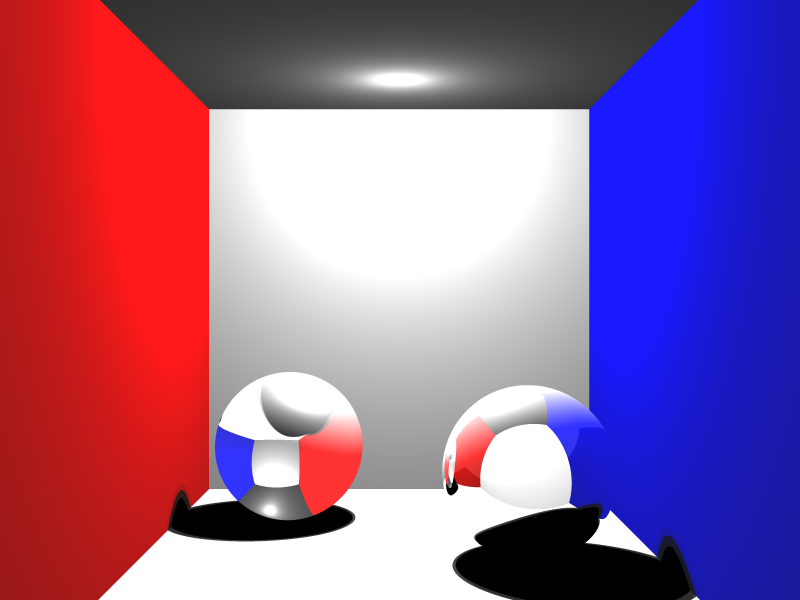
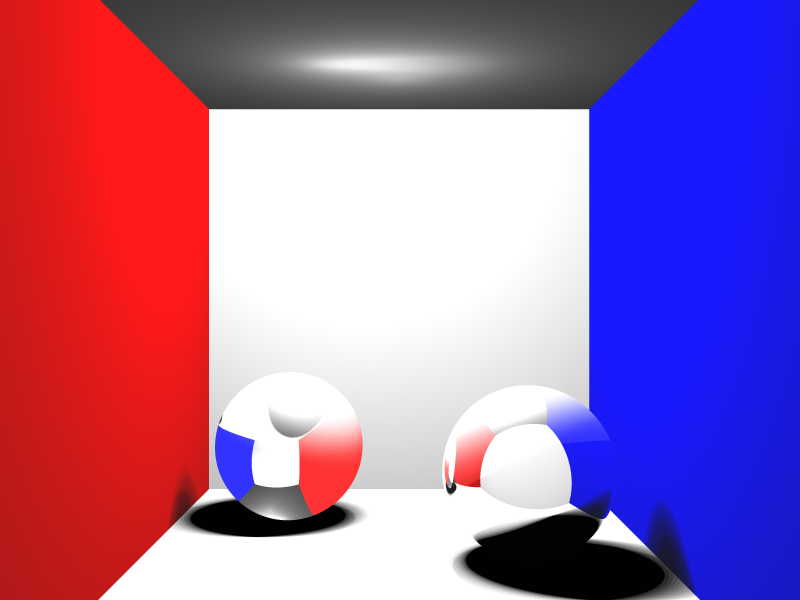
Introduce AreaLight for SoftShadows

diff --git a/VCG_Raytracer/src/raytracer/Raytracer.java b/VCG_Raytracer/src/raytracer/Raytracer.java
@@ -16,8 +16,10 @@
 
 package raytracer;
 
+import scene.lights.AreaLight;
 import scene.lights.Light;
 import scene.Scene;
+import scene.lights.PointLight;
 import scene.shapes.Shape;
 import ui.Window;
 import utils.*;
@@ -131,8 +133,8 @@ public class Raytracer {
         RgbColor illuColor = RgbColor.BLACK;
 
         // Check the ray from the intersection point to any light source
-        for (Light light : mLightList) {
-            illuColor = traceIllumination( illuColor, light, finalIntersection );
+        for( Light light : mLightList ) {
+            illuColor = illuColor.add(traceIllumination( illuColor, light, finalIntersection ));
         }
 
         // Shadow: Something was hit in between of the light source and the current shape. Draw ambient
@@ -145,6 +147,29 @@ public class Raytracer {
     }
 
     private RgbColor traceIllumination(RgbColor illuColor, Light light, Intersection finalIntersection){
+        if( light.isType().equals("PointLight")){
+            illuColor = getColorFromPointLight(illuColor, light, finalIntersection);
+        }
+        if( light.isType().equals("AreaLight")){
+            illuColor = getColorFromAreaLight(illuColor, light, finalIntersection);
+        }
+        return illuColor;
+    }
+
+    private RgbColor getColorFromAreaLight(RgbColor illuColor, Light light, Intersection finalIntersection) {
+
+        ArrayList<PointLight> lightPoints = ((AreaLight) light).getPositionList();
+
+        float factor = 1.0f / lightPoints.size();
+
+        for( PointLight subLight : lightPoints ) {
+            illuColor = illuColor.add( getColorFromPointLight(illuColor, subLight, finalIntersection).multScalar( factor ) );
+        }
+
+        return illuColor;
+    }
+
+    private RgbColor getColorFromPointLight(RgbColor illuColor, Light light, Intersection finalIntersection) {
         Ray lightRay = new Ray(finalIntersection.getIntersectionPoint(), light.getPosition());
 
         Intersection lightIntersection = getIntersectionBetweenLight(lightRay, finalIntersection);

diff --git a/VCG_Raytracer/src/scene/lights/AreaLight.java b/VCG_Raytracer/src/scene/lights/AreaLight.java
@@ -1,11 +1,79 @@
 package scene.lights;
 
+import raytracer.Intersection;
+import raytracer.Ray;
+import scene.shapes.Plane;
 import utils.RgbColor;
 import utils.Vec3;
 
+import java.util.ArrayList;
+
 public class AreaLight  extends Light {
 
-	public AreaLight(Vec3 pos, RgbColor color) {
-		super(pos, color);
+	private Plane mPlane;
+	private float mDim;
+	private short mRes;
+	private float mSteps;
+	private RgbColor mColor;
+	private Vec3 mStartPoint;
+
+	public ArrayList<PointLight> getPositionList() {
+		return mPositionList;
+	}
+
+	private ArrayList<PointLight> mPositionList;
+
+
+	public AreaLight(Vec3 pos, float dimension, short resolution, RgbColor color) {
+		super(pos, color, "AreaLight");
+
+		mPlane = new Plane(pos, null, Plane.FACING_DOWN);
+		mColor = color;
+		mDim = dimension;
+		mRes = resolution;
+		mPositionList = new ArrayList<>();
+		mPositionList.add( new PointLight(pos, color) );
+
+		mSteps = mDim / mRes;
+		mStartPoint = new Vec3(pos.x - mDim / 2, pos.y, pos.z - mDim / 2);
+
+		calculatePositions();
+	}
+
+	private void calculatePositions(){
+
+		if( mRes <= 1 ){
+			return;
+		}
+
+		float m, n = 0;
+
+		for( short i = 0; i < mRes; i++ ){
+			for( short j = 0; j < mRes; j++ ){
+				n = mStartPoint.z + j * mSteps;
+			}
+			m = mStartPoint.x + i * mSteps;
+
+			mPositionList.add(new PointLight( new Vec3(m, getPosition().y, n ), mColor));
+		}
+	}
+
+	public boolean hitsAreaLight(Ray inputRay){
+		// intersects plane?
+		Intersection intersection = mPlane.intersect(inputRay);
+
+		boolean hit = intersection.isHit();
+
+		// is within borders?
+		if( hit ) {
+			if ((intersection.getIntersectionPoint().x < this.getPosition().x + mDim) &&
+					(intersection.getIntersectionPoint().x > this.getPosition().x - mDim) &&
+					(intersection.getIntersectionPoint().z < this.getPosition().z + mDim) &&
+					(intersection.getIntersectionPoint().z > this.getPosition().z - mDim)) {
+				return true;
+			}
+		}
+
+		return false;
 	}
 }

diff --git a/VCG_Raytracer/src/Main.java b/VCG_Raytracer/src/Main.java
@@ -103,16 +103,18 @@ public class Main {
         float lightDist = DIMENSION - 1f;
 
         /* Middle Light */
-        renderScene.createPointLight(new Vec3( 0, lightHeight, lightDist ), RgbColor.WHITE);
+        //renderScene.createPointLight(new Vec3( 0, lightHeight, lightDist ), RgbColor.WHITE);
+
+        renderScene.createAreaLight(new Vec3( 0, lightHeight, lightDist ), 2, (short) 14, RgbColor.WHITE);
 
         /* Left Back Light */
-        renderScene.createPointLight(new Vec3( -0.2f, lightHeight, lightDist - 0.2f ), RgbColor.DARK_GRAY);
+        //renderScene.createPointLight(new Vec3( -0.2f, lightHeight, lightDist - 0.2f ), RgbColor.DARK_GRAY);
         /* Right Back Light */
-        renderScene.createPointLight(new Vec3( 0.2f, lightHeight, lightDist - 0.2f ), RgbColor.DARK_GRAY);
+        //renderScene.createPointLight(new Vec3( 0.2f, lightHeight, lightDist - 0.2f ), RgbColor.DARK_GRAY);
         /* Left Front Light */
-        renderScene.createPointLight(new Vec3( -0.2f, lightHeight, lightDist + 0.2f ), RgbColor.DARK_GRAY);
+        //renderScene.createPointLight(new Vec3( -0.2f, lightHeight, lightDist + 0.2f ), RgbColor.DARK_GRAY);
         /* Right Back Light */
-        renderScene.createPointLight(new Vec3( 0.2f, lightHeight, lightDist + 0.2f ), RgbColor.DARK_GRAY);
+        //renderScene.createPointLight(new Vec3( 0.2f, lightHeight, lightDist + 0.2f ), RgbColor.DARK_GRAY);
     }
 
     private static void setupCameras(Scene renderScene) {

diff --git a/VCG_Raytracer/src/scene/Scene.java b/VCG_Raytracer/src/scene/Scene.java
@@ -2,6 +2,7 @@ package scene;
 
 
 import scene.cameras.PerspectiveCamera;
+import scene.lights.AreaLight;
 import scene.lights.Light;
 import scene.lights.PointLight;
 import scene.materials.Material;
@@ -45,6 +46,10 @@ public class Scene {
 
     public void createPointLight(Vec3 pos, RgbColor color){
         mLightList.add(new PointLight(pos, color));
+    }
+
+    public void createAreaLight(Vec3 pos, float dim, short res, RgbColor color){
+        mLightList.add(new AreaLight(pos, dim, res, color));
     }
 
     public void createPerspCamera(Vec3 camPos, Vec3 viewPoint, Vec3 upVec, float viewAngle, float focalLength, int screenWidth, int screenHeight){

diff --git a/VCG_Raytracer/src/scene/lights/Light.java b/VCG_Raytracer/src/scene/lights/Light.java
@@ -12,12 +12,16 @@ public class Light extends SceneObject {
     }
 
     private RgbColor mColor;
+    protected String type;
 
-    public Light(Vec3 pos, RgbColor color) {
+    public Light(Vec3 pos, RgbColor color, String type) {
         super(pos);
         mColor = color;
+        this.type = type;
         Log.print(this, "Init with color " + mColor);
     }
 
-
+    public String isType() {
+        return this.type;
+    }
 }

diff --git a/VCG_Raytracer/src/scene/lights/PointLight.java b/VCG_Raytracer/src/scene/lights/PointLight.java
@@ -6,6 +6,6 @@ import utils.Vec3;
 public class PointLight extends Light {
 
     public PointLight(Vec3 pos, RgbColor color) {
-        super(pos, color);
+        super(pos, color, "PointLight");
     }
 }

diff --git a/VCG_Raytracer/src/raytracer/Intersection.java b/VCG_Raytracer/src/raytracer/Intersection.java
@@ -1,6 +1,5 @@
 package raytracer;
 
-import scene.materials.Material;
 import scene.shapes.Shape;
 import utils.Vec3;
 
